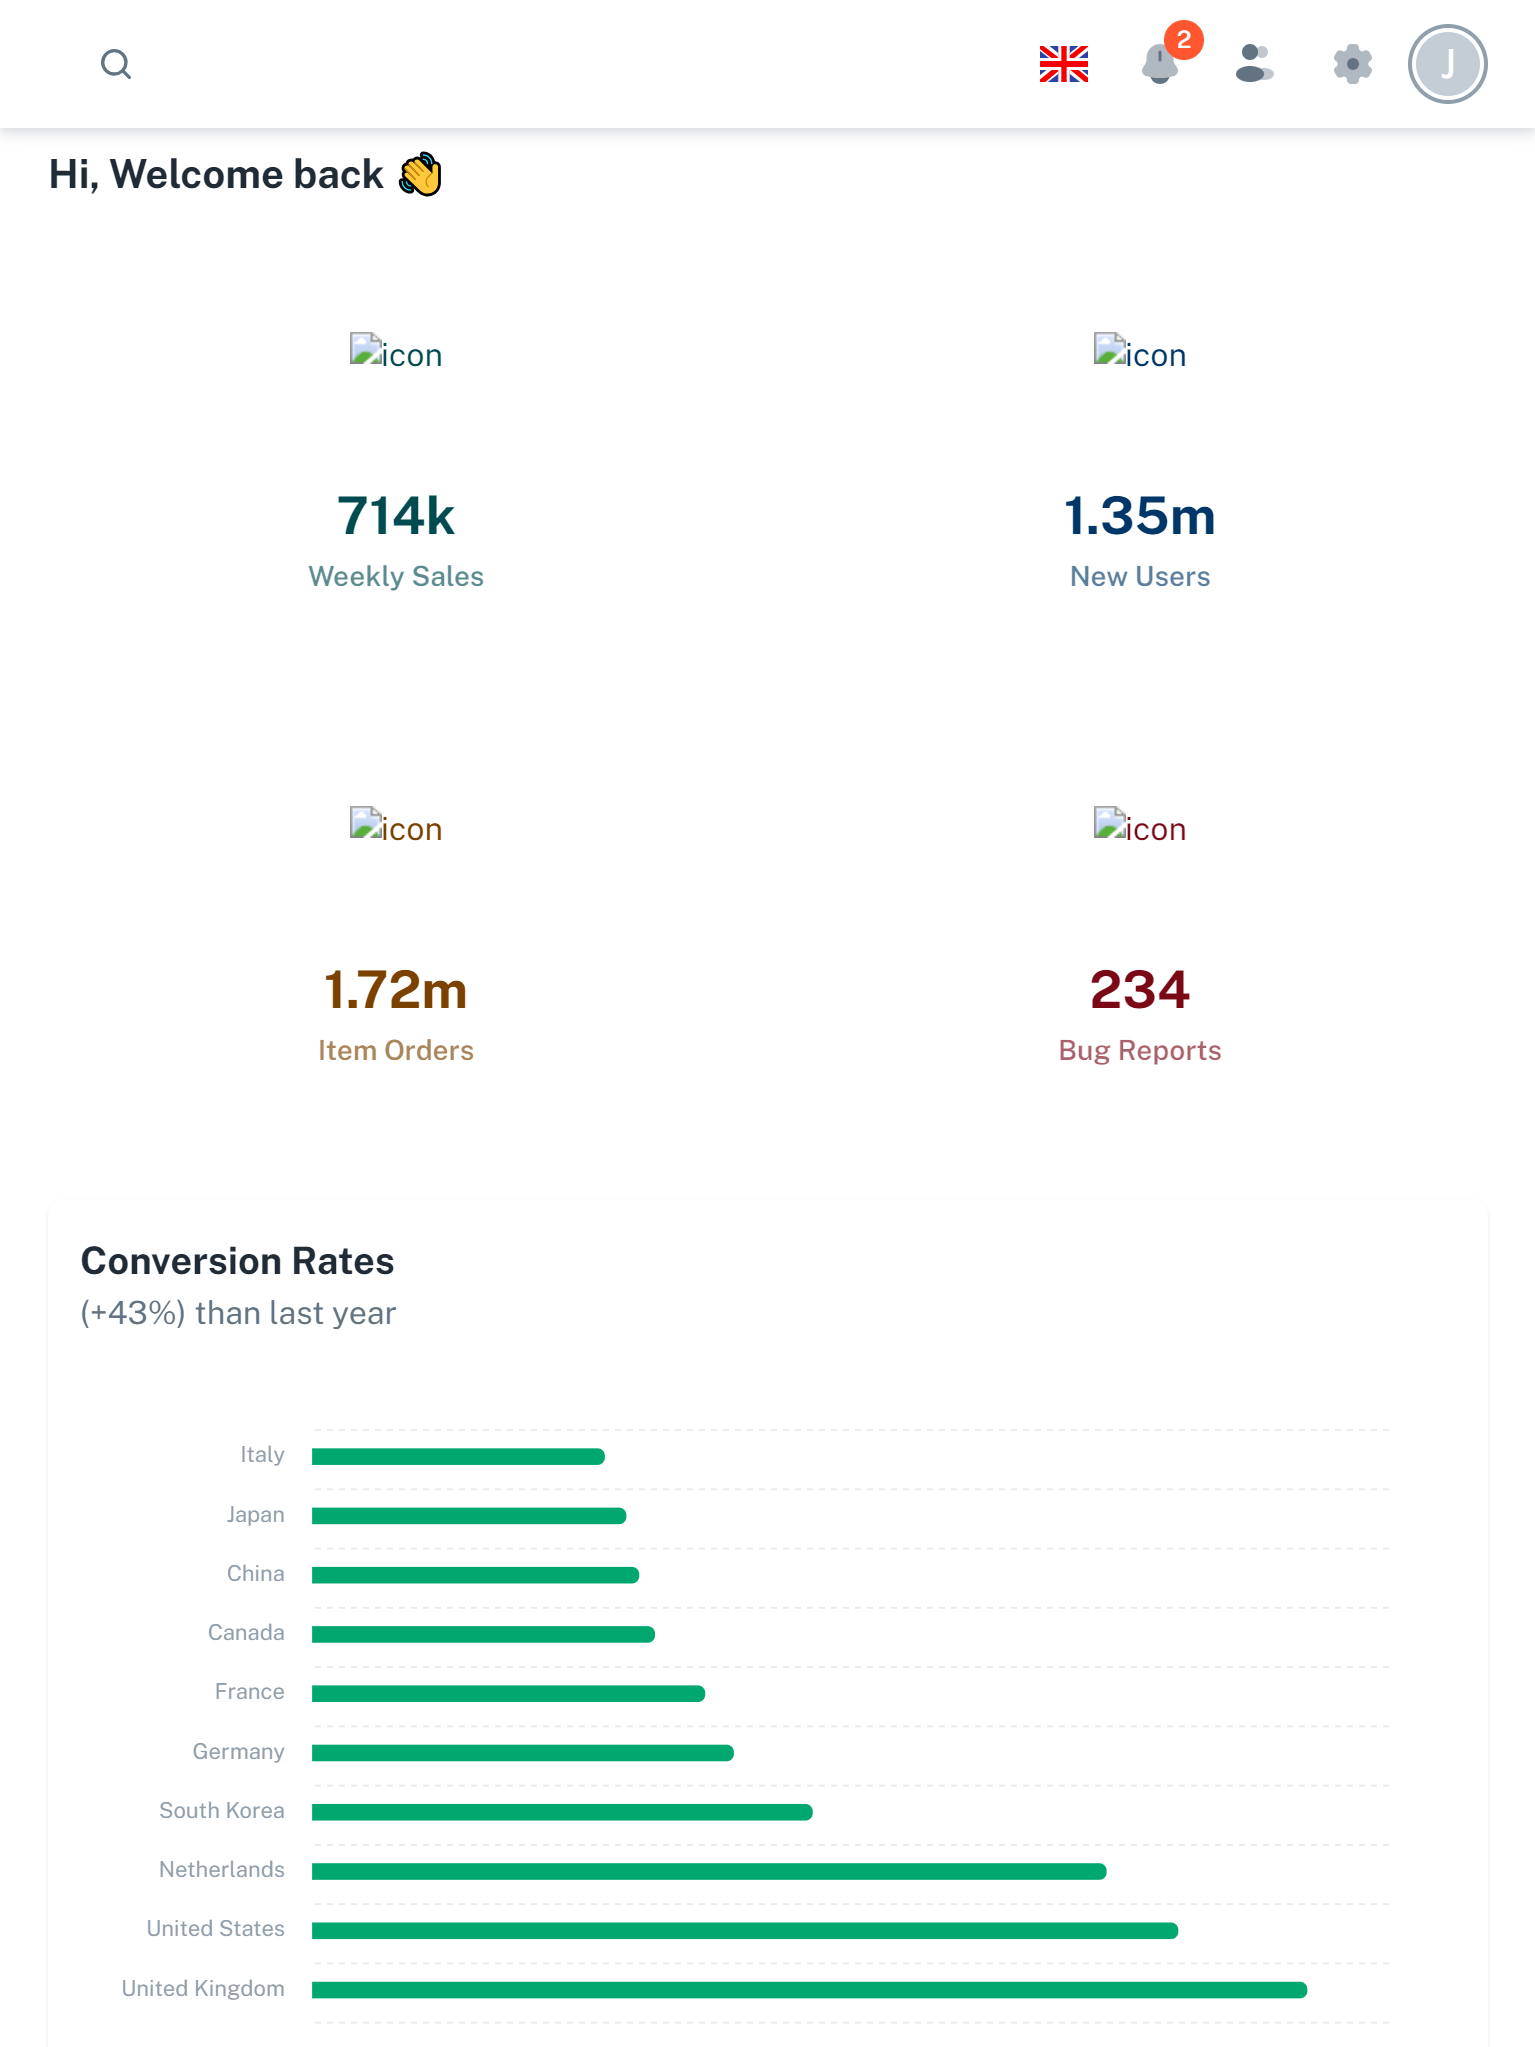
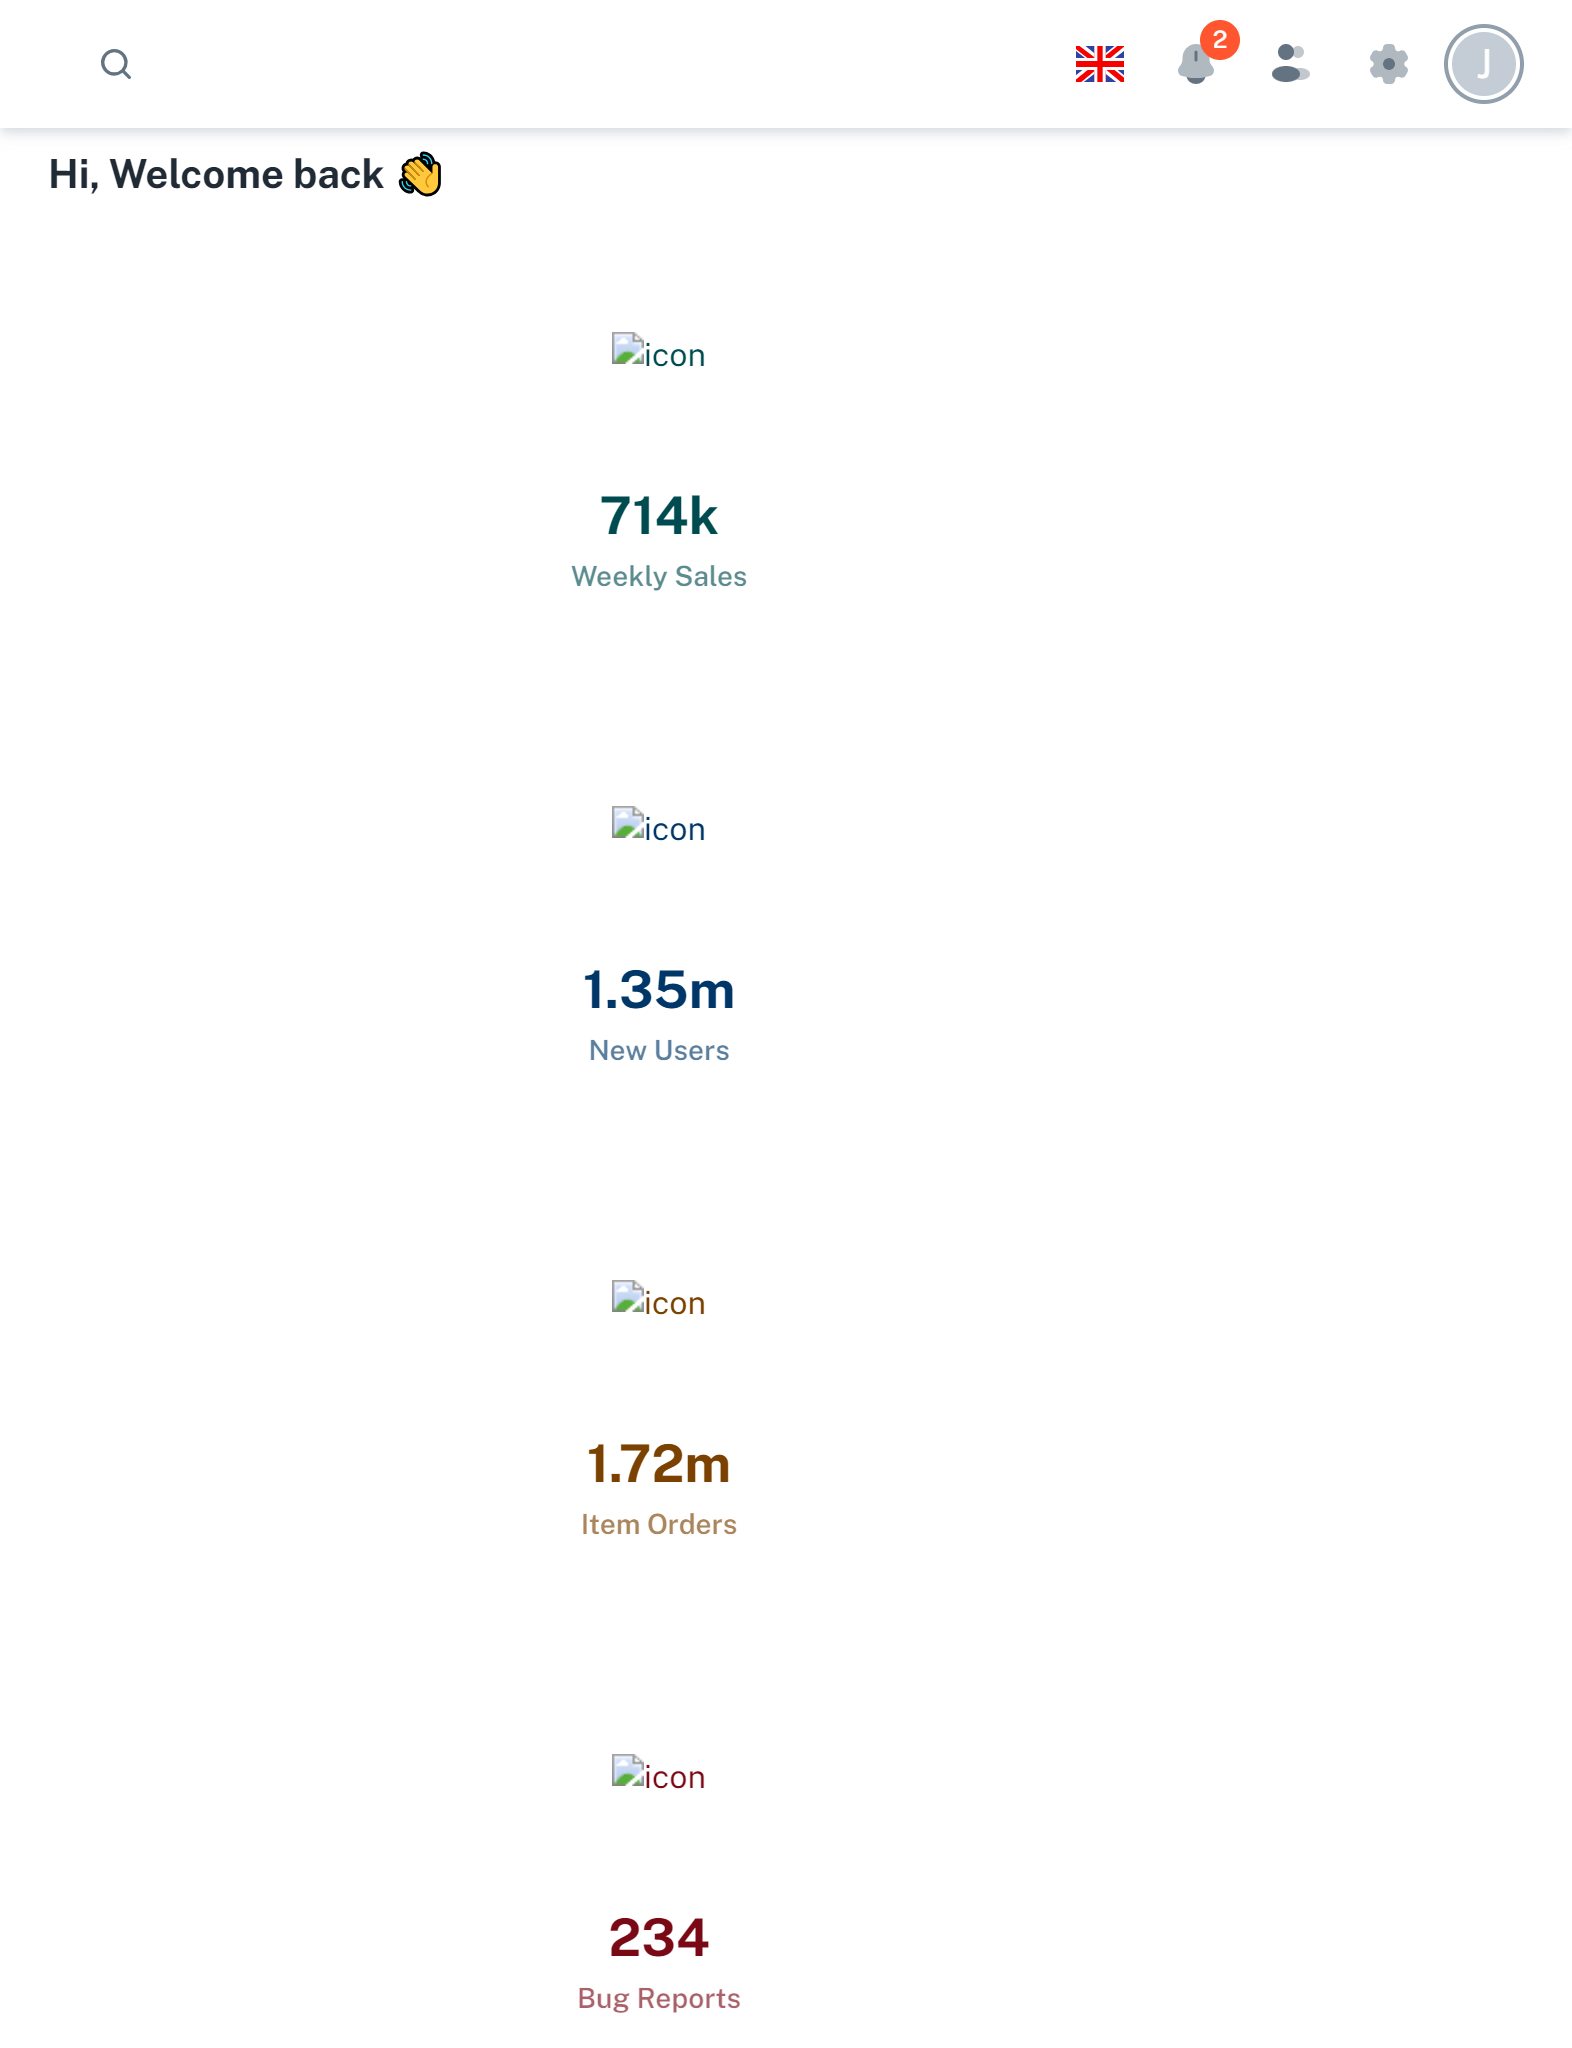
cr_13

diff --git a/src/pages/analytics/OverviewAnalyticsView.jsx b/src/pages/analytics/OverviewAnalyticsView.jsx
@@ -44,7 +44,7 @@ export default function OverviewAnalyticsView() {
       </Typography>
 
       <Grid container spacing={3}>
-        <Grid xs={12} sm={6} md={3}>
+        <Grid xs={12} sm={10} md={5}>
           <AnalyticsWidgetSummary
             title="Weekly Sales"
             total={714000}
@@ -52,7 +52,7 @@ export default function OverviewAnalyticsView() {
           />
         </Grid>
 
-        <Grid xs={12} sm={6} md={3}>
+        <Grid xs={12} sm={10} md={5}>
           <AnalyticsWidgetSummary
             title="New Users"
             total={1352831}
@@ -63,7 +63,7 @@ export default function OverviewAnalyticsView() {
           />
         </Grid>
 
-        <Grid xs={12} sm={6} md={3}>
+        <Grid xs={12} sm={10} md={5}>
           <AnalyticsWidgetSummary
             title="Item Orders"
             total={1723315}
@@ -72,7 +72,7 @@ export default function OverviewAnalyticsView() {
           />
         </Grid>
 
-        <Grid xs={12} sm={6} md={3}>
+        <Grid xs={12} sm={10} md={5}>
           <AnalyticsWidgetSummary
             title="Bug Reports"
             total={234}
@@ -83,7 +83,19 @@ export default function OverviewAnalyticsView() {
           />
         </Grid>
 
-
+        <Grid xs={12} md={6} lg={4}>
+          <AnalyticsCurrentVisits
+            title="Current Visits"
+            chart={{
+              series: [
+                { label: "America", value: 4344 },
+                { label: "Asia", value: 5435 },
+                { label: "Europe", value: 1443 },
+                { label: "Africa", value: 4443 },
+              ],
+            }}
+          />
+        </Grid>
         <Grid xs={12} md={6} lg={8}>
           <AnalyticsConversionRates
             title="Conversion Rates"
@@ -104,19 +116,7 @@ export default function OverviewAnalyticsView() {
             }}
           />
         </Grid>
-        <Grid xs={12} md={6} lg={4}>
-          <AnalyticsCurrentVisits
-            title="Current Visits"
-            chart={{
-              series: [
-                { label: "America", value: 4344 },
-                { label: "Asia", value: 5435 },
-                { label: "Europe", value: 1443 },
-                { label: "Africa", value: 4443 },
-              ],
-            }}
-          />
-        </Grid>
+     
 
        
         <Grid xs={12} md={6} lg={8}>
@@ -143,7 +143,7 @@ export default function OverviewAnalyticsView() {
           />
         </Grid>
 
-        <Grid xs={12} md={6} lg={8}>
+        <Grid xs={12} md={10} lg={8}>
           <AnalyticsWebsiteVisits
             title="Website Visits"
             subheader="(+43%) than last year"
@@ -184,7 +184,7 @@ export default function OverviewAnalyticsView() {
             }}
           />
         </Grid>
-        <Grid xs={12} md={6} lg={4}>
+        <Grid xs={12} md={10} lg={8}>
           <AnalyticsOrderTimeline
             title="Order Timeline"
             list={_analyticOrderTimeline}
